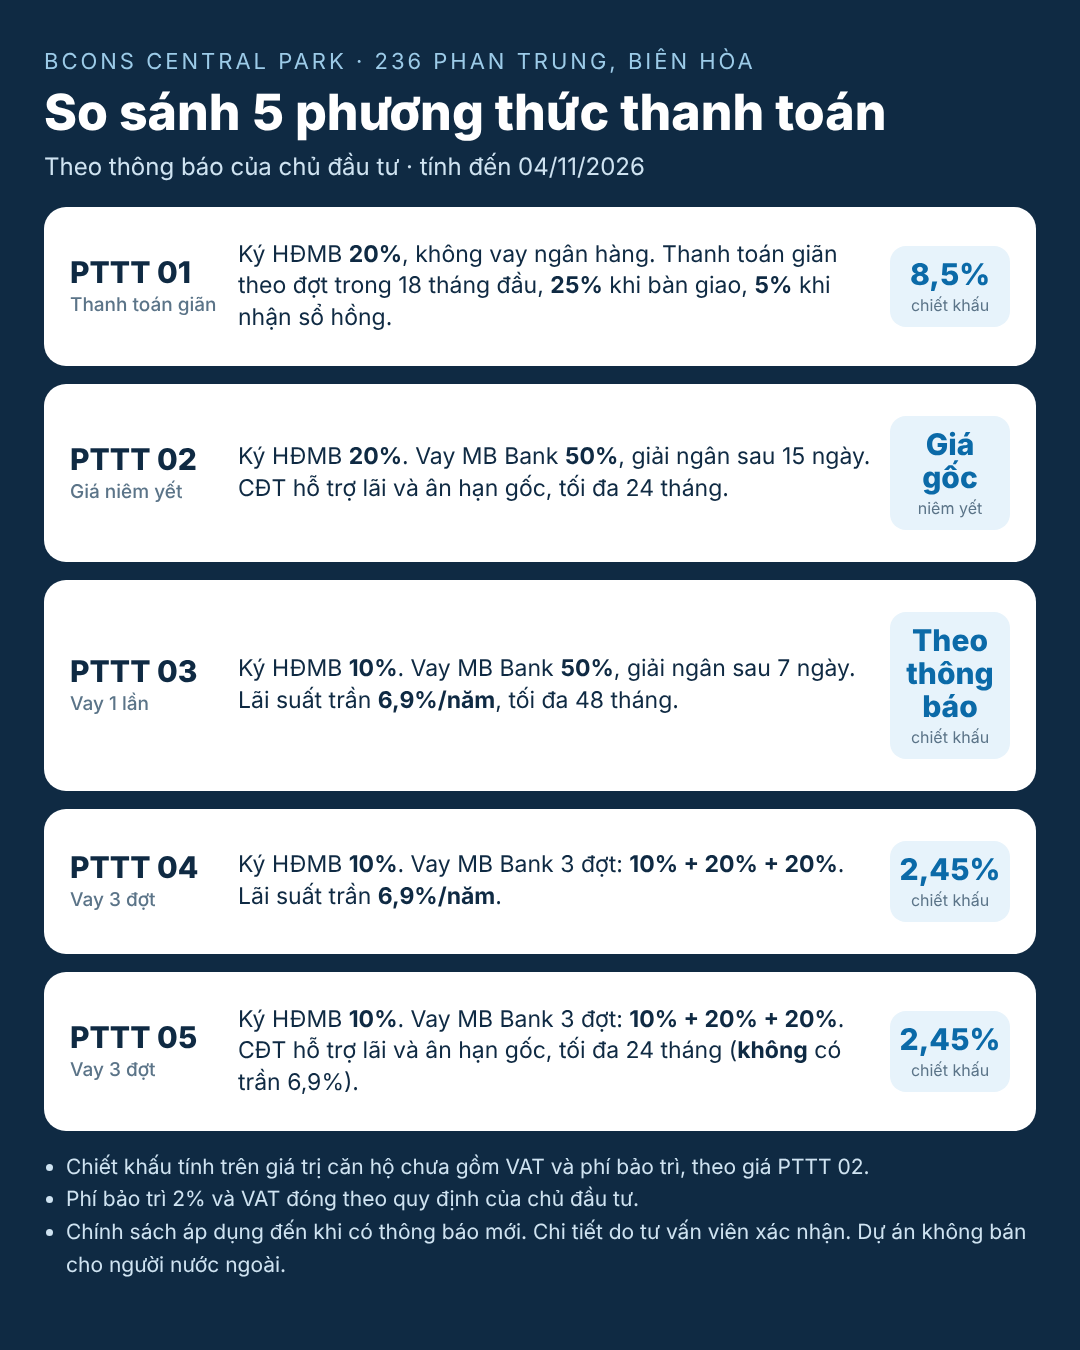
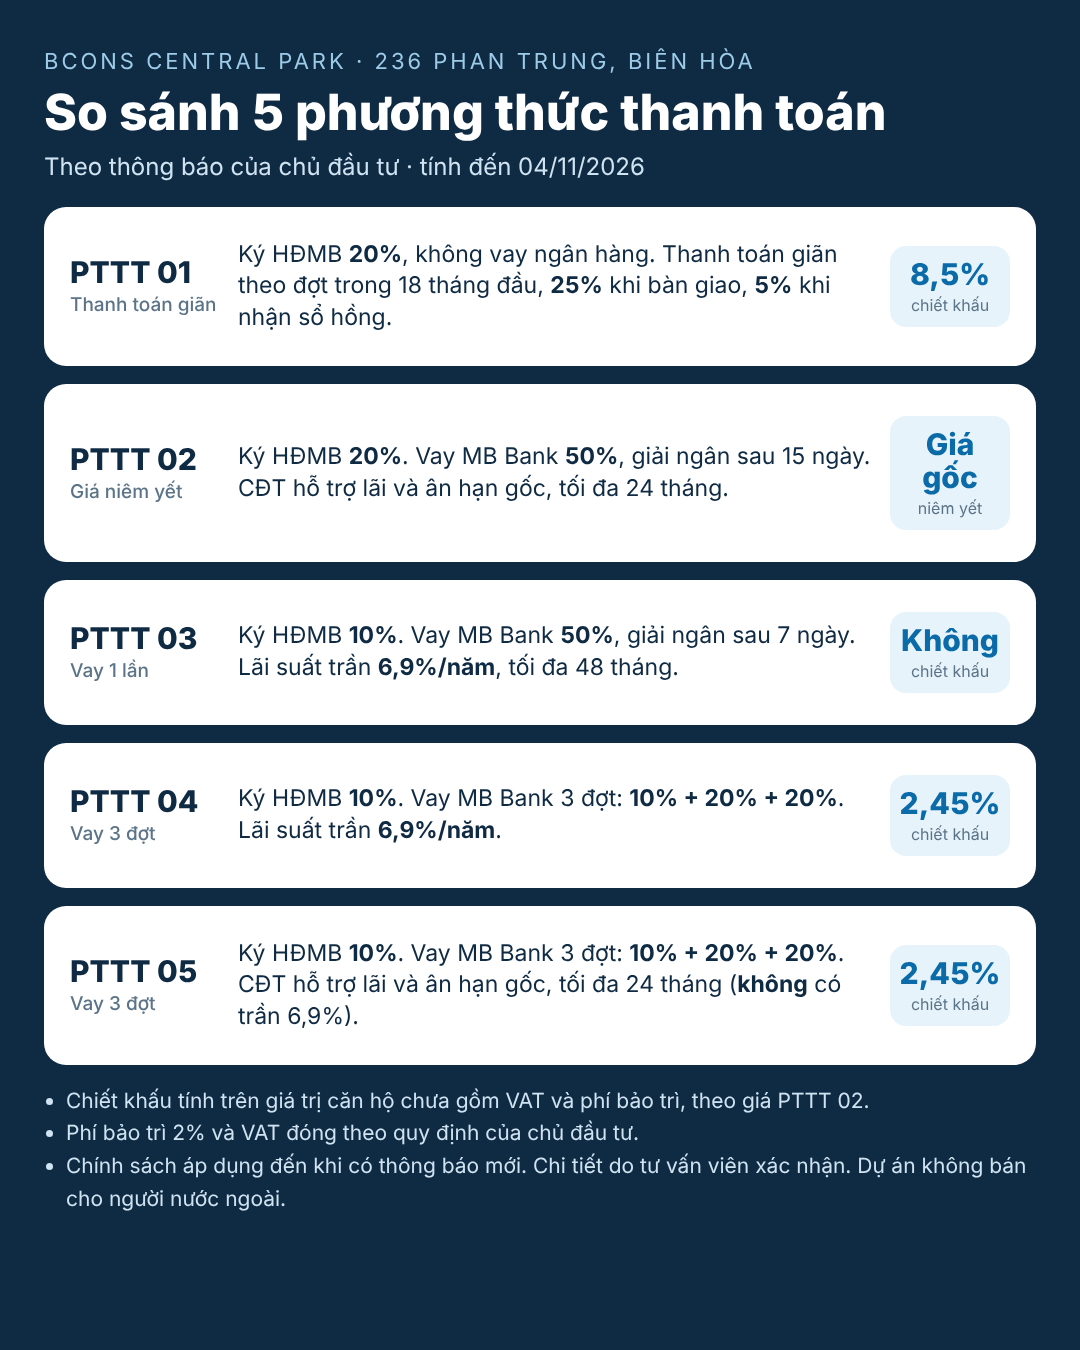
PTTT 03 has no discount; add fanpage proposal
Claude-Session: https://claude.ai/code/session_018A7PWzZgfgYHH1bgYb77b2

Changed region(s): [[0.0306, 0.4667, 0.9778, 0.9644]]

diff --git a/docs/content/messenger-qua/so-sanh-5-pttt.html b/docs/content/messenger-qua/so-sanh-5-pttt.html
@@ -34,7 +34,7 @@
 
 <div class="card"><div class="id">PTTT 03<small>Vay 1 lần</small></div>
   <div class="body">Ký HĐMB <b>10%</b>. Vay MB Bank <b>50%</b>, giải ngân sau 7 ngày. Lãi suất trần <b>6,9%/năm</b>, tối đa 48 tháng.</div>
-  <div class="cd"><div class="n">Theo<br>thông báo</div><div class="l">chiết khấu</div></div></div>
+  <div class="cd"><div class="n">Không</div><div class="l">chiết khấu</div></div></div>
 
 <div class="card"><div class="id">PTTT 04<small>Vay 3 đợt</small></div>
   <div class="body">Ký HĐMB <b>10%</b>. Vay MB Bank 3 đợt: <b>10% + 20% + 20%</b>. Lãi suất trần <b>6,9%/năm</b>.</div>

diff --git a/docs/content/fanpage-de-xuat.md b/docs/content/fanpage-de-xuat.md
@@ -1,0 +1,60 @@
+# Đề xuất dựng Fanpage Facebook từ số 0 (Bcons Central Park)
+
+Trạng thái: **đề xuất, chờ anh duyệt**. Chưa tạo gì trên Facebook.
+Mục tiêu: thu thông tin khách quan tâm qua Messenger (kịch bản: `messenger-kich-ban.md`, bảng Sheets "Bcons - Khach quan tam Messenger").
+Quy tắc nội dung: theo `CLAUDE.md` (không cam kết lợi nhuận, không hứa tăng giá, không nói "sắp hết" khi chưa kiểm tra, mọi bài anh duyệt trước khi đăng).
+
+## 1. Nguyên tắc chính
+Mọi bài trên fanpage và TikTok chỉ có một việc: **đưa người xem tới một tin nhắn Messenger** để nhận bảng so sánh 5 PTTT. Không đăng cho vui, không đăng bài không có lời mời nhắn tin.
+
+## 2. Dựng trang (anh làm, em chuẩn bị chữ và hình)
+| Mục | Đề xuất | Ghi chú |
+|---|---|---|
+| Tên | Dạng "Căn hộ Biên Hòa – Bcons Central Park | [tên anh]" | **Cần hỏi công ty** có cho dùng tên/logo dự án và có cần ghi "kênh tư vấn" không. Tránh tên nghe như trang chính thức của chủ đầu tư nếu chưa được phép |
+| Danh mục | Bất động sản | |
+| Nút chính | "Nhắn tin" | Không dùng nút "Gọi" (chưa quyết dùng hotline) |
+| Giới thiệu | 2-3 dòng: dự án ở đâu, kênh này làm gì, nhắn tin nhận gì | Em soạn |
+| Ảnh đại diện, ảnh bìa | Làm bằng HTML như bảng PTTT hoặc Canva | Dùng hình CĐT cho phép; ảnh Drive phải anh đính kèm em mới xem được |
+| Bài ghim | Bảng so sánh 5 PTTT + "Nhắn BẢNG để nhận bản chi tiết" | Ảnh đã có, chờ anh duyệt |
+| Bảo mật | Bật xác thực 2 lớp, thêm một quản trị viên dự phòng | Đừng để một tài khoản cá nhân là nguồn duy nhất |
+| Hộp thư | Cài tin chào, trả lời nhanh, tin ngoài giờ | Theo `messenger-kich-ban.md` |
+
+## 3. Bốn nhóm nội dung (xoay vòng)
+1. **Vị trí và hạ tầng Biên Hòa:** tái dùng video `ha-tang-bien-hoa-2026`, có bảng nguồn số liệu.
+2. **Tài chính:** vay, lãi suất, so sánh PTTT. Tái dùng video `lai-suat-vay-mua-nha-2026`. Luôn nói rõ chưa VAT và phí bảo trì 2%.
+3. **Sản phẩm:** loại căn, diện tích, 60 tiện ích, nhà mẫu (chỉ khi có ảnh thật anh đã duyệt).
+4. **Lịch mở bán:** đợt 2 ngày 29/11/2026, đợt 3 ngày 27/12/2026. Không nói số căn còn lại khi chưa kiểm tra.
+
+## 4. Lịch 14 ngày đầu (gợi ý, mỗi tuần 3 bài Facebook + 3 video TikTok)
+| Ngày | Việc |
+|---|---|
+| 1-2 | Tạo trang, cài hộp thư, thử luồng bằng tài khoản khác |
+| 3 | Bài ghim: bảng 5 PTTT |
+| 4 | Video hạ tầng Biên Hòa (đăng cả TikTok, Reels/Facebook) |
+| 6 | Bài chữ: "Cầm [số vốn] thì chọn PTTT nào?" (em viết bằng skill `real-estate-content-creator`, kèm bảng nguồn) |
+| 8 | Video lãi suất vay mua nhà |
+| 10 | Bài loại căn và diện tích |
+| 12 | Bài lịch mở bán đợt 2 (29/11) |
+| 14 | Xem số liệu, chọn nội dung hiệu quả nhất làm tiếp |
+
+Mỗi bài/video: ghi cột "Nguồn" trong Sheets để biết bài nào kéo được khách.
+
+## 5. Kéo người xem khi chưa có ai (tuần 1-4)
+- Mời bạn bè, người quen trên Facebook cá nhân của anh theo dõi trang.
+- Chia sẻ bài vào nhóm Facebook bất động sản **chỉ khi nhóm cho phép** (nhiều nhóm cấm quảng cáo).
+- Không mua like, không nhắn hàng loạt từ Facebook/Zalo cá nhân (dễ bị khóa).
+- Quảng cáo trả phí để **sau tuần 3-4**, khi biết nội dung nào hiệu quả. Phiên này đã có công cụ Meta Ads; chạy loại quảng cáo dẫn thẳng vào Messenger, ngân sách nhỏ, anh duyệt ngân sách và nội dung trước khi bật.
+
+## 6. Đo gì
+Mỗi tuần: số cuộc nhắn tin, số người để lại số điện thoại và đồng ý, số người gọi được, bài/video nguồn. Mục tiêu số lượng chưa đặt vì chưa có dữ liệu nền; sau 2 tuần em đề xuất mốc dựa trên số thực.
+
+## 7. Rủi ro
+- Trang mới đăng dồn dập, gắn nhiều liên kết ngoài thường bị giảm hiển thị hoặc hạn chế. Đăng đều, ít liên kết ngoài.
+- Nội dung bất động sản dễ vi phạm quy định quảng cáo của Meta/TikTok và của công ty. Công ty chưa gửi quy định nội dung chính thức, nên anh hỏi lại trước khi đăng.
+- Chính sách Meta thay đổi thường xuyên. Các quy định về cửa sổ nhắn tin và quảng cáo nên kiểm tra lại trên trang chính thức của Meta khi triển khai.
+
+## 8. Cần anh quyết
+1. Tên trang và việc dùng tên/logo dự án (hỏi công ty).
+2. Ai trả lời tin nhắn, giờ làm việc nào.
+3. Có dùng hotline công ty không.
+4. Bắt đầu ngày nào (đợt 2 mở ngày 29/11/2026, còn khoảng 25 ngày; dựng xong trong tuần này thì kịp đăng 3 tuần nội dung trước đợt 2).

diff --git a/docs/content/messenger-kich-ban.md b/docs/content/messenger-kich-ban.md
@@ -79,7 +79,7 @@ Nội dung (chép từ `docs/bcons-central-park.md`, đã đối chiếu tài li
 |---|---|---|---|---|
 | 01 (thanh toán giãn) | 20% | Không | Không áp dụng | 8,5% |
 | 02 | 20% | 50% giải ngân sau 15 ngày | CĐT hỗ trợ lãi và ân hạn gốc, tối đa 24 tháng | Giá niêm yết |
-| 03 | 10% | 50% giải ngân sau 7 ngày | Trần 6,9%/năm, tối đa 48 tháng | Theo thông báo |
+| 03 | 10% | 50% giải ngân sau 7 ngày | Trần 6,9%/năm, tối đa 48 tháng | Không có |
 | 04 | 10% | 10% + 20% + 20% (3 đợt) | Trần 6,9%/năm | 2,45% |
 | 05 | 10% | 10% + 20% + 20% (3 đợt) | CĐT hỗ trợ lãi và ân hạn gốc, tối đa 24 tháng | 2,45% |
 
@@ -91,7 +91,7 @@ Ghi chú bắt buộc dưới bảng:
 - Dự án không bán cho người nước ngoài.
 
 Việc cần làm: dựng bảng này thành ảnh hoặc PDF (Canva hoặc Remotion), anh duyệt rồi mới đưa link vào tin cảm ơn.
-Còn thiếu: PTTT 03 chưa ghi rõ mức chiết khấu, PTTT 01 chưa xác nhận bản mới nhất. Cột đó để "Theo thông báo" tới khi anh xác nhận.
+Còn thiếu: PTTT 01 chưa xác nhận bản mới nhất. PTTT 03 không có chiết khấu (anh xác nhận 04/11/2026).
 
 ## 5. Tình huống đặc biệt
 

diff --git a/docs/bcons-central-park.md b/docs/bcons-central-park.md
@@ -45,7 +45,7 @@ Chung cho mọi PTTT: khách cá nhân; ký HĐMB trực tiếp CĐT hoặc khá
 |---|---|---|---|---|
 | 01 (thanh toán giãn) | 20% | Không | Không áp dụng | 8,5% |
 | 02 | 20% | 50% giải ngân sau 15 ngày | CĐT hỗ trợ lãi và ân hạn gốc, tối đa 24 tháng | Giá niêm yết |
-| 03 | 10% | 50% giải ngân sau 7 ngày | Trần 6,9%/năm, tối đa 48 tháng, không quá 24 tháng từ thông báo bàn giao; CĐT trả phần chênh | Theo thông báo (chưa ghi rõ) |
+| 03 | 10% | 50% giải ngân sau 7 ngày | Trần 6,9%/năm, tối đa 48 tháng, không quá 24 tháng từ thông báo bàn giao; CĐT trả phần chênh | Không có (anh xác nhận 04/11/2026) |
 | 04 | 10% | 10% + 20% + 20% (3 đợt) | Trần 6,9%/năm như PTTT 03 | 2,45% |
 | 05 | 10% | 10% + 20% + 20% (3 đợt) | CĐT hỗ trợ lãi và ân hạn gốc, tối đa 24 tháng (không nêu trần 6,9%) | 2,45% |
 
